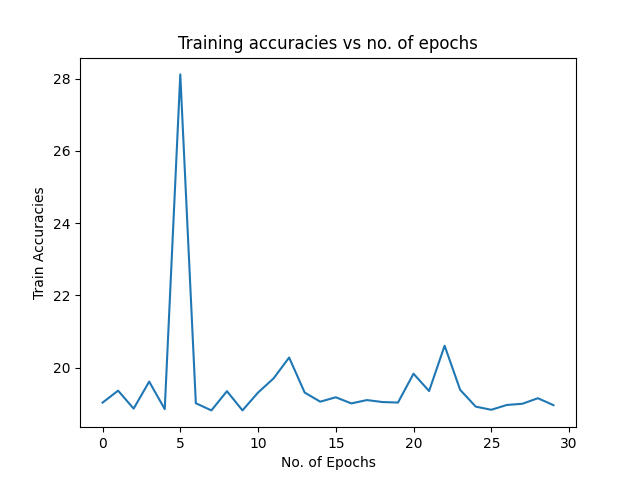
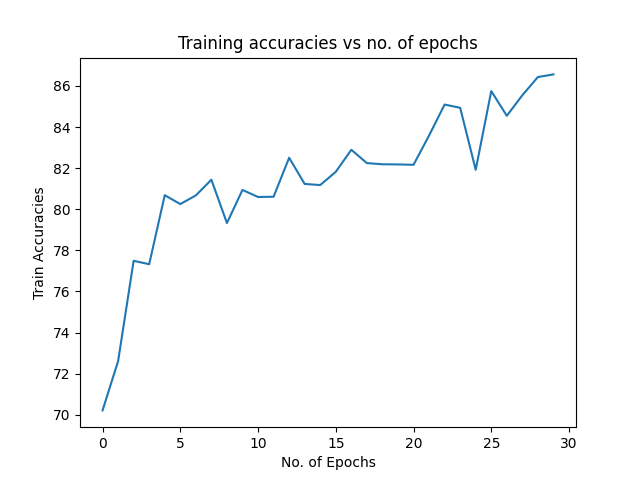
ResUNET implementation added

diff --git a/train.py b/train.py
@@ -14,7 +14,7 @@ from lookahead import Lookahead
 import os
 os.environ["KMP_DUPLICATE_LIB_OK"]="TRUE"
 
-LEARNING_RATE = 1e-4
+LEARNING_RATE = 1e-5
 DEVICE = "cuda:0" if torch.cuda.is_available() else "cpu"
 BATCH_SIZE = 16
 NUM_EPOCHS = 30
@@ -73,7 +73,7 @@ def main():
     model = ResUNETPlus(in_channels=3, out_channels=1)
     model.to(device=DEVICE)
     optimizer = optim.Adam(model.parameters(), lr=LEARNING_RATE,)
-    #lookahead = Lookahead(optimizer, k=8, alpha=0.2) 
+    lookahead = Lookahead(optimizer, k=5, alpha=0.5) 
     Fit(model=model,train_dl=train_dl, test_dl=test_dl, loss_fn=loss_fn, optimizer=optimizer, epochs=NUM_EPOCHS, device=DEVICE)
 
 
